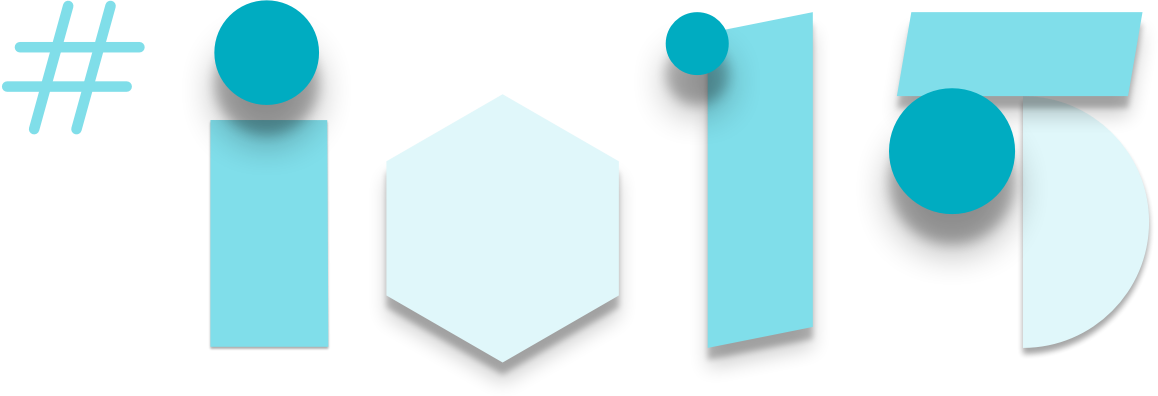
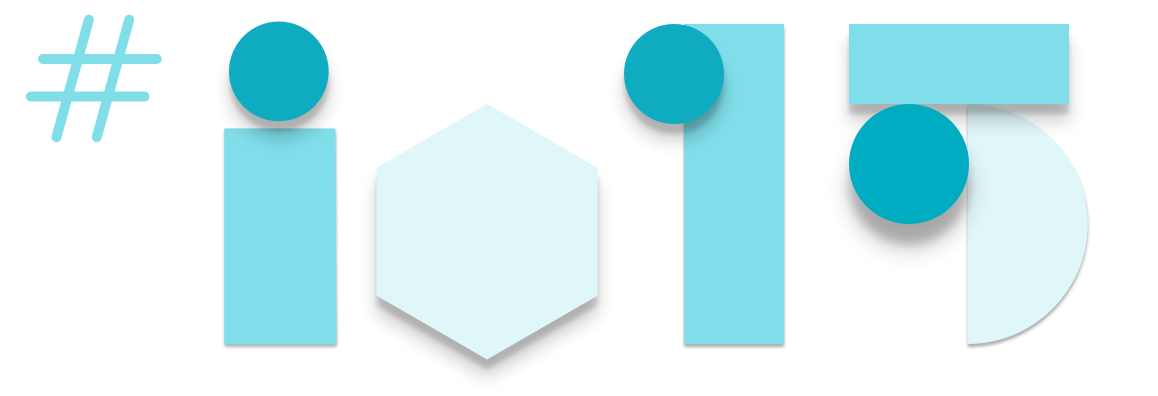
Update hash tag image. Fixes #645

diff --git a/app/styles/components/_app.scss b/app/styles/components/_app.scss
@@ -195,13 +195,13 @@ h6 {
 .io__hash {
   margin: 40px auto;
   height: 120px;
-  background: url(../images/io15-hash-on-white.png) no-repeat 50% 50%;
+  background: url(../images/io15-hash-on-white-solid.png) no-repeat 50% 50%;
   background-size: contain;
 }
 
 .bg-cyan {
   .io__hash {
-    background-image: url(../images/io15-hash-on-blue.png);
+    background-image: url(../images/io15-hash-on-blue-solid.png);
   }
 }
 
